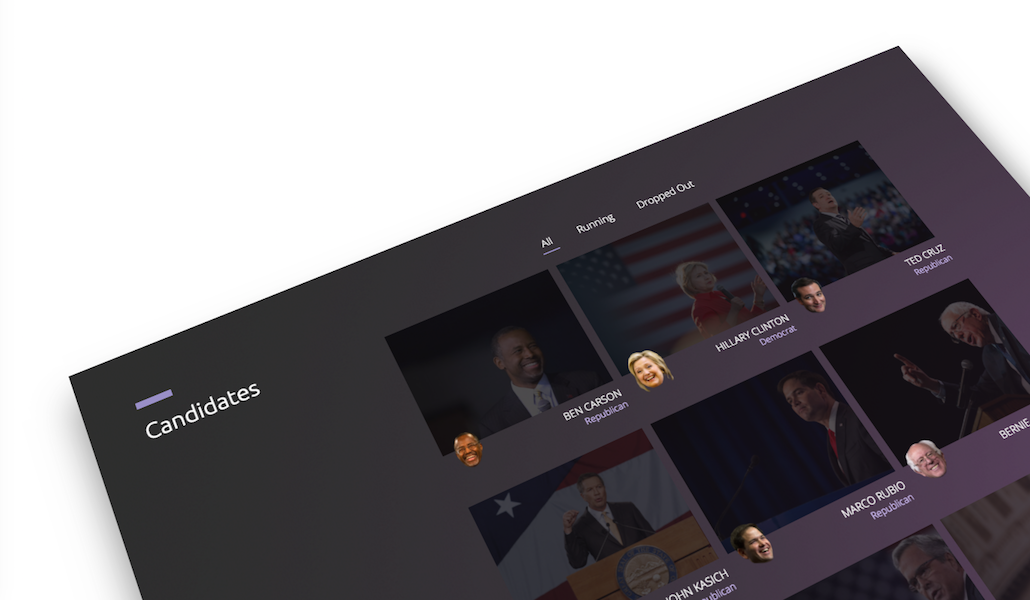
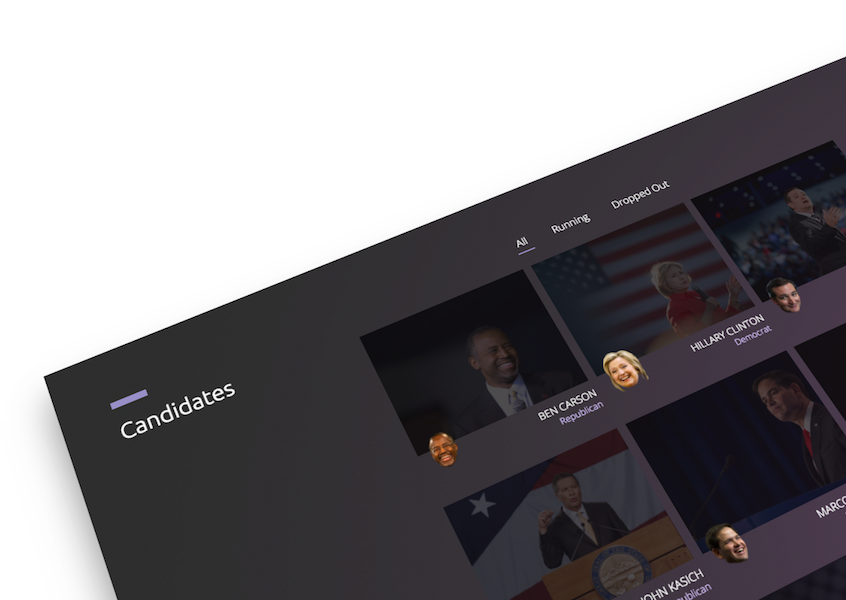
minor fixes

diff --git a/dist/app.bundle.js b/dist/app.bundle.js
@@ -25392,7 +25392,7 @@ return /******/ (function(modules) { // webpackBootstrap
 	        { className: classes },
 	        _react2.default.createElement(
 	          'div',
-	          { className: 'container' },
+	          { className: 'container', style: { paddingRight: '2em' } },
 	          _react2.default.createElement(
 	            'div',
 	            { className: 'copy-header' },

diff --git a/components/homeCopy.jsx b/components/homeCopy.jsx
@@ -13,7 +13,7 @@ export default class HomeCopy extends Component{
       light : light
     });
     return <div className={classes}>
-      <div className="container">
+      <div className="container" style={{paddingRight:'2em'}}>
         <div className="copy-header">
           <h2>{header}</h2>
         </div>
